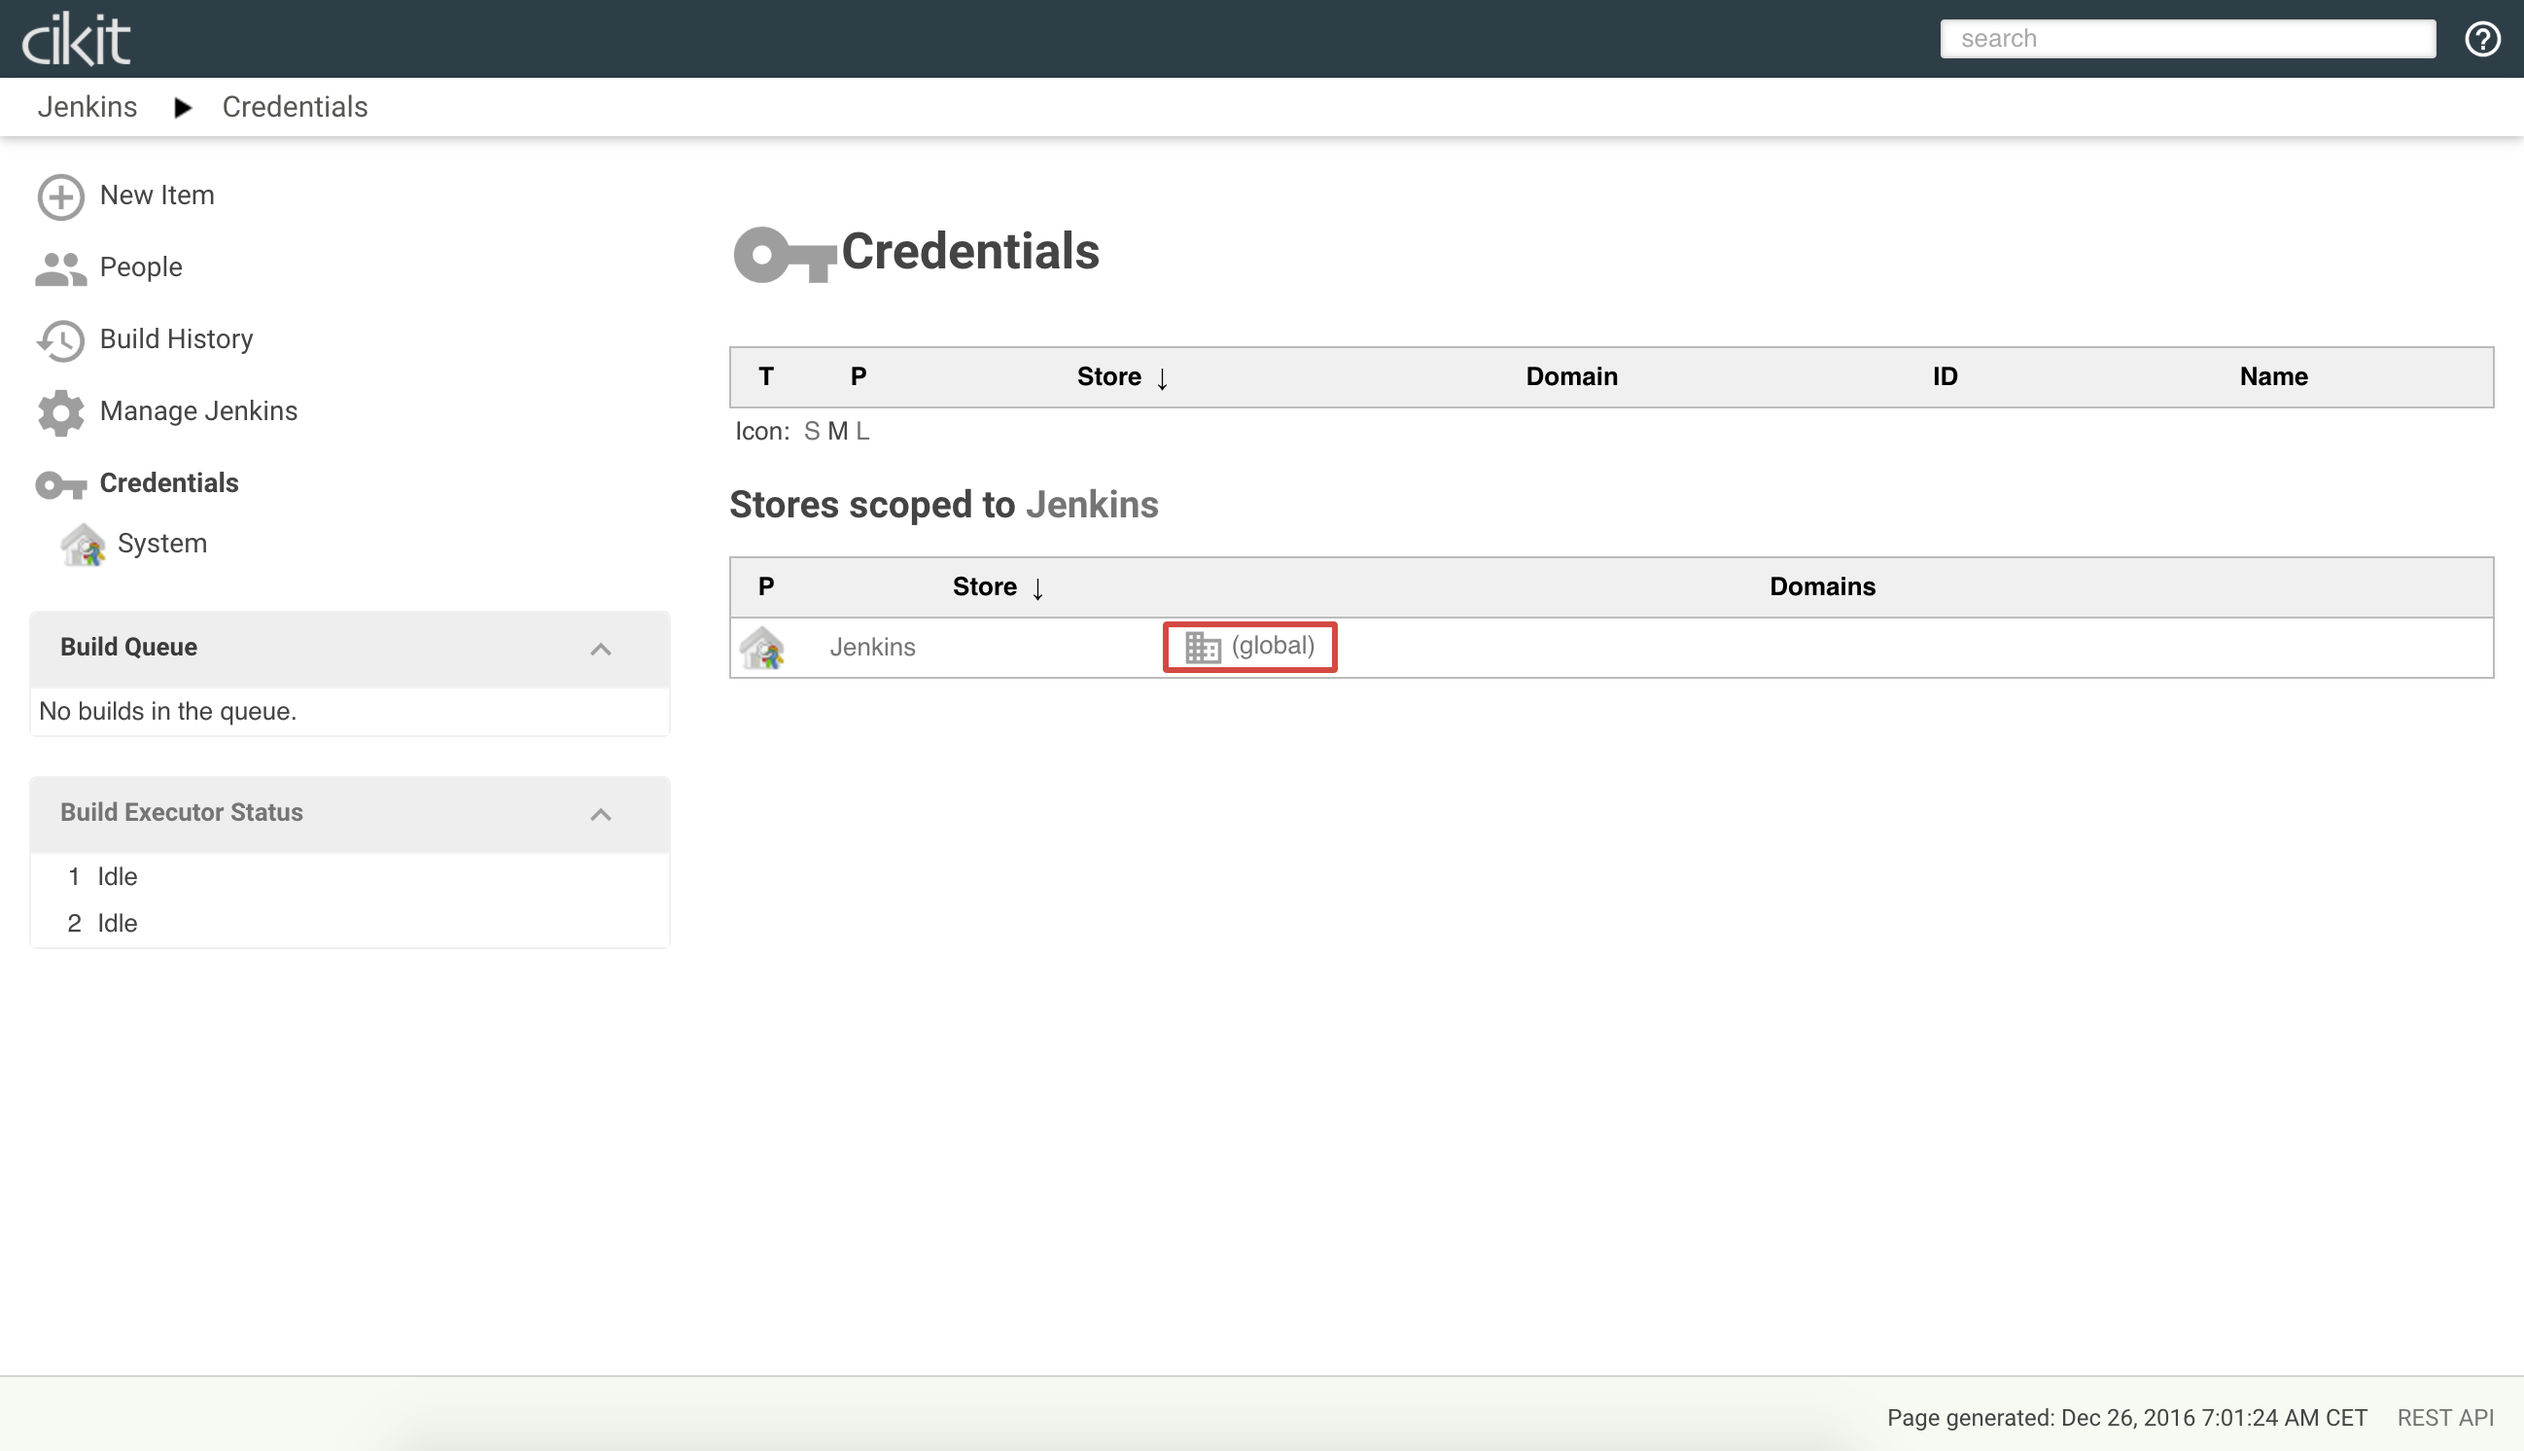
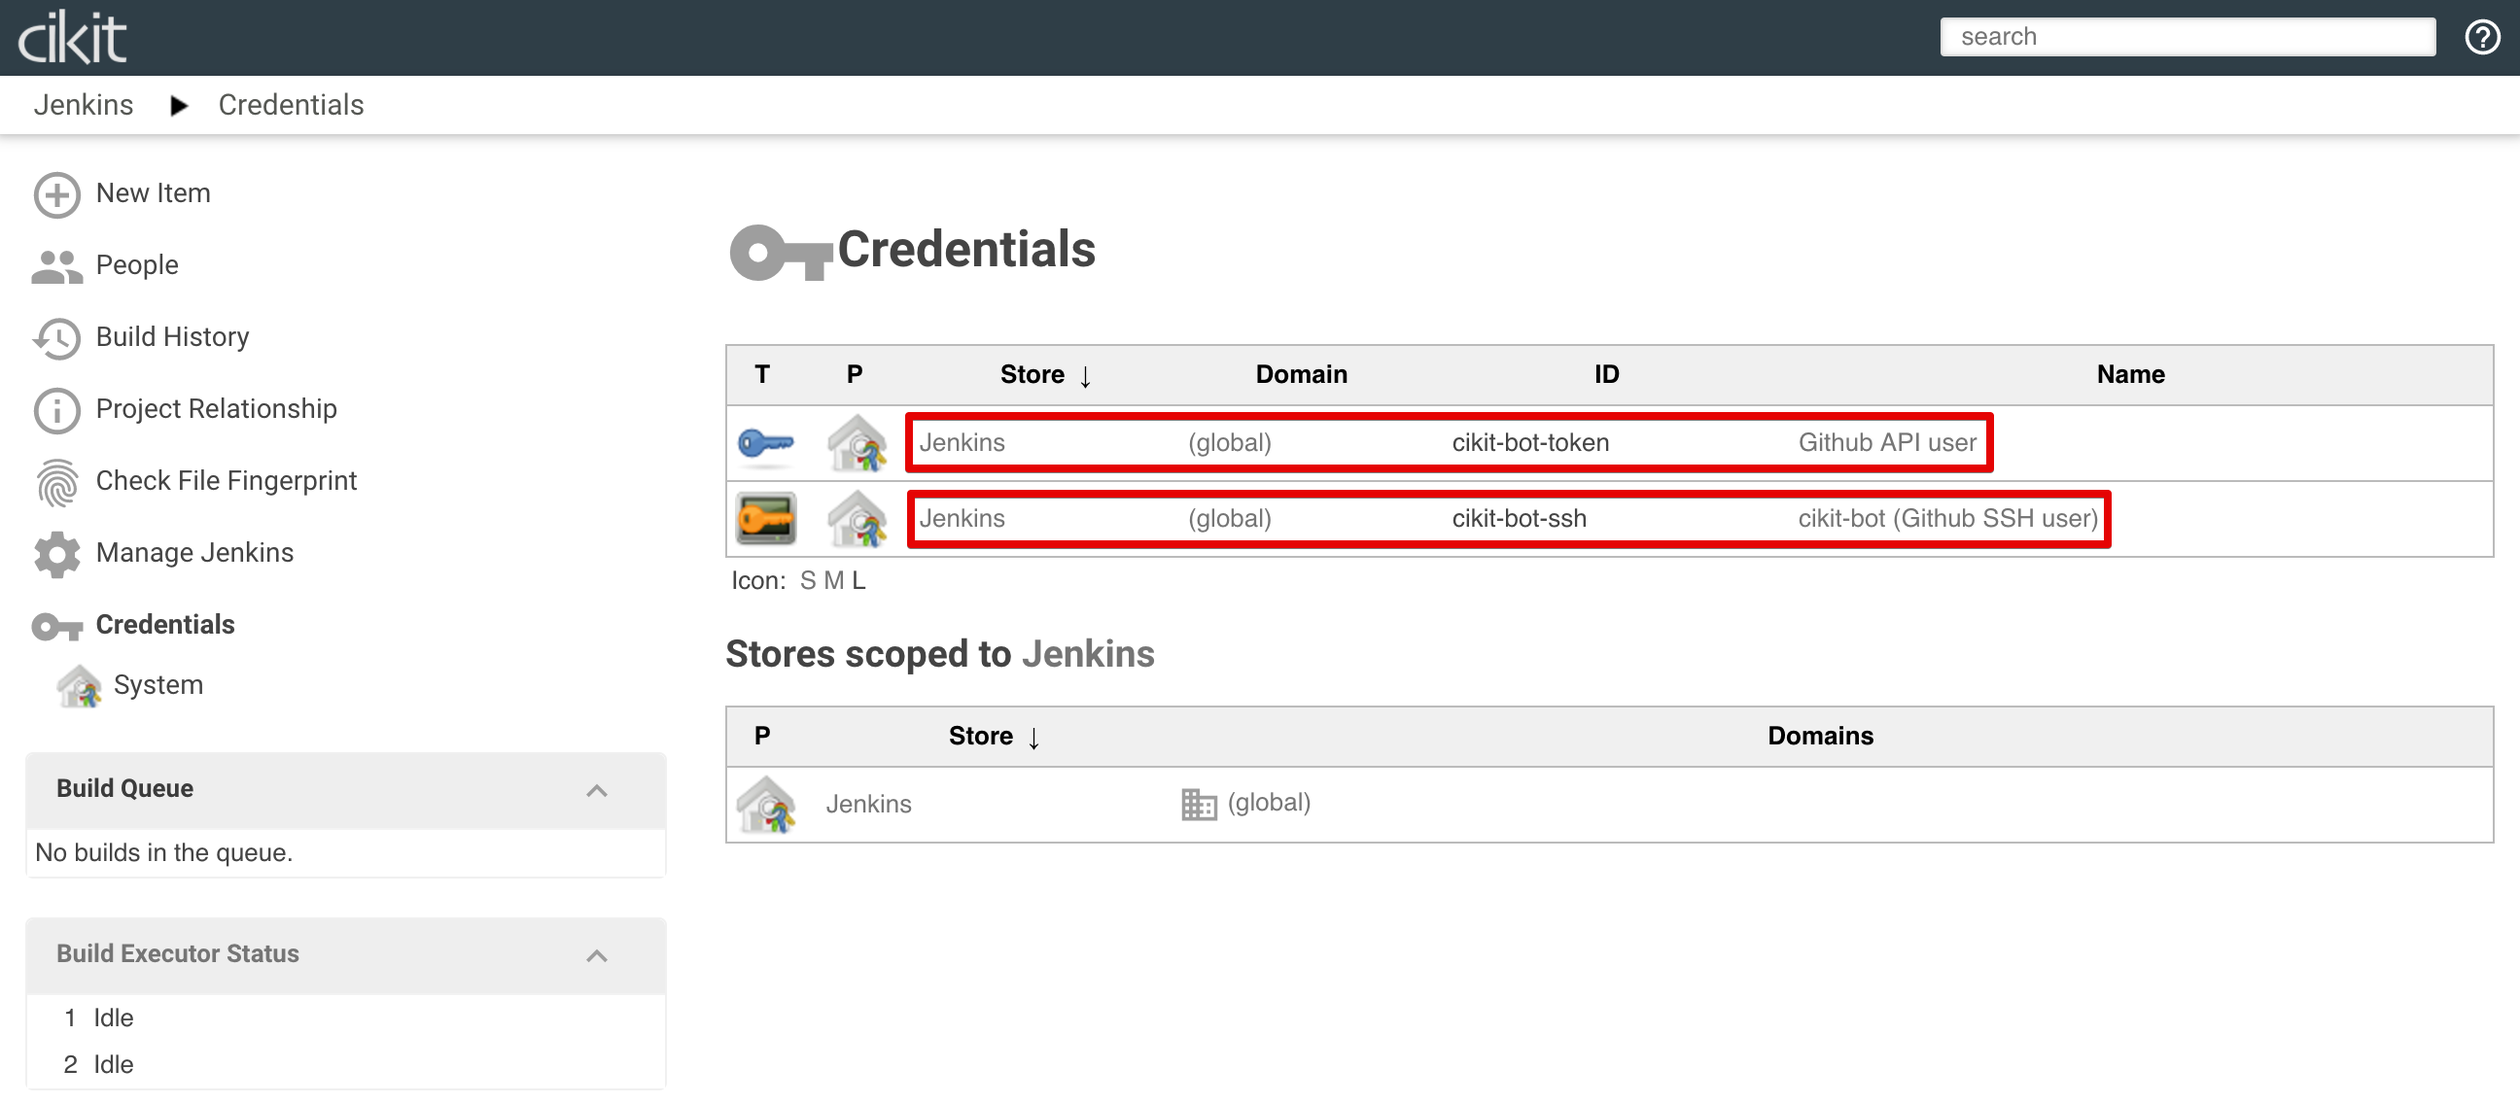
[CIKit][Jenkins] Update documentation about configuring a bot

diff --git a/docs/jenkins/github-bot/README.md b/docs/jenkins/github-bot/README.md
@@ -1,10 +1,10 @@
 # GitHub Bot configuration
 
-We have a hosting for code in face of **GitHub** and continuous integration server -  **Jenkins**. Two unlinked chain items. To setup the connection between them we should tune CI server and below located "step-by-step" tutorial for achieving this.
+We have a hosting for code in face of **GitHub** and continuous integration server -  **Jenkins**. Two unlinked chain items. To setup the connection between them we should tune CI server and below is located a "step-by-step" tutorial for achieving this.
 
-- Start with creating credentials entry. Visit `https://YOUR.DOMAIN/jenkins/credentials` or click on `Credentials` in sidebar. Initially we have only one credential domain named `Jenkins`. Click on `(global)` to proceed to the entries listing in the scope. ![Overview all domains](images/credentials-overview-all.png)
-- After passing to the domain credentials list we'll see the empty list and `Add Credentials` item in a sidebar. Click on it. ![Overview domain](images/credentials-overview-domain.png)
-- In just opened form we will use `Secret text` as value for `Kind`, `Scope` remains unchanged. `ID` is the account name on GitHub. `Secret` - personal access token for that account. `Description` - free editable value for identifying the entry among the others. Fill the values, press `OK` and configuration will be saved. ![Credentials creation](images/credentials-creation.png)
+- Visit `https://YOUR.DOMAIN/jenkins/credentials` or click on `Credentials` in sidebar. Initially we have two types of credentials which must be modified one by one. ![Overview all domains](images/credentials-overview-all.png)
+- Click on `Github API user` / and `Update` at sidebar on opened page or proceed to `https://YOUR.DOMAIN/jenkins/credentials/store/system/domain/_/credential/cikit-bot-token/update`. ![Github API user](images/credentials-bot-token.png) Put an API token of Github account into field, marked on screenshot.
+- Proceed to editing of next credential (`Github SSH user`). Actions are the same as for previous one, or just open the `https://YOUR.DOMAIN/jenkins/credentials/store/system/domain/_/credential/cikit-bot-ssh/update`. ![Github SSH user](images/credentials-bot-ssh.png) Use Github account where token you took from. Add public SSH key in settings of that account (on Github) and configure private key by one of available methods you may see on screenshot above.
 
 ## Have questions?
 
@@ -12,7 +12,7 @@ Now we overcame the first frontier. Let's review some questions you might have b
 
 ### Do I need to use my own GitHub account?
 
-Actually you do, but would be better to create another one with a name, such as `CIKit Bot` or similar, and use it only for CI purposes.
+Actually you can, but would be better to create another one with a name, such as `CIKit Bot` or similar, and use it only for CI purposes. Mandatory requirement - user must have **administrative privileges**. If repository is user-owned, then bot is not variant, because this kind of repositories can have only one admin - it's owner. Organization-owned repositories could have collaborators with configurable permissions level.
 
 ### Where should I get an access token for filling the `Secret` field?
 
@@ -24,14 +24,12 @@ Okay, we've set up the account and ready to go with it. Now go to `GitHub Pull R
 
 If the test is passed - you'll see the appropriate message. In case of failure you have to check the internet connection or GitHub account credentials correctness.
 
-Also you can rename the connection for better identifying it among the others if you are planning to setup additional parts. Do that by changing the `Description` value field that is on the image above.
-
 ## Have questions?
 
 Some points you might be interested in.
 
 ### How to work with private repositories?
 
-Our bot must be added as a collaborator to a repository. In case of organization account it can be added as its member (to not repeat the action for each repository).
+Our bot must be added as collaborator to repository. In case of organization, it can be added as its member (to not repeat the action for each repository).
 
 Once you decide that you've finished configuration on GitHub you can test an access to repository by checking `Test Permissions to a Repository`, typing its name and pressing `CHECK REPO PERMISSIONS` as you may see on the last screenshot.
